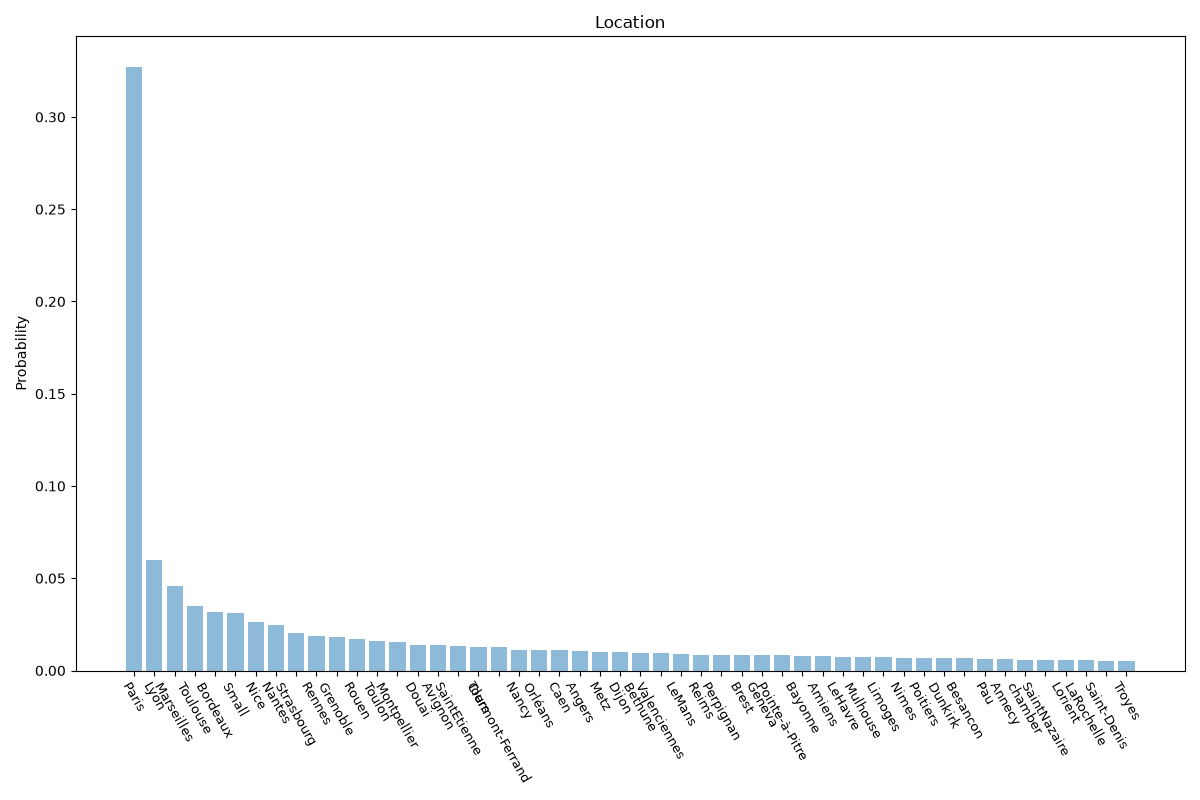
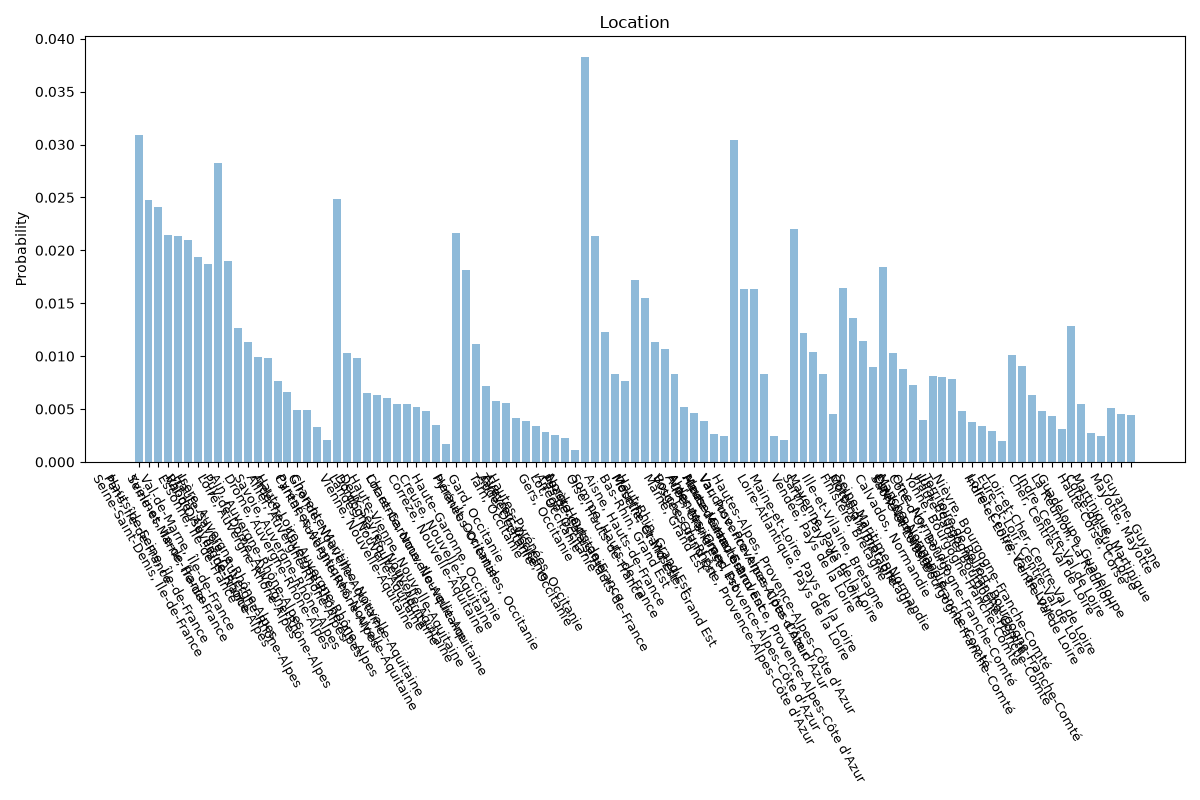
fix: rebuild France location from INSEE departments, add United States composite and aliases

diff --git a/src/persona/lib/format.py b/src/persona/lib/format.py
@@ -1,9 +1,19 @@
-# Only aliases that resolve to a dataset belong here. `usa` and `uae` were
-# removed: there is no United States composite (only three states) and no
-# United Arab Emirates data at all.
+# Only aliases that resolve to a dataset belong here. Names that already match
+# a data directory once lowercased and underscored (united_kingdom, global,
+# united_states_of_america) resolve without an entry.
 alias = {
     "uk": "united_kingdom",
+    "great_britain": "united_kingdom",
+    "gb": "united_kingdom",
+    "britain": "united_kingdom",
+    "usa": "united_states_of_america",
+    "us": "united_states_of_america",
+    "u.s.": "united_states_of_america",
+    "u.s.a.": "united_states_of_america",
+    "america": "united_states_of_america",
+    "united_states": "united_states_of_america",
     "world": "global",
+    "earth": "global",
 }
 
 

diff --git a/tests/test_generate.py b/tests/test_generate.py
@@ -273,10 +273,13 @@ def test_clean_location_aliases():
 
     assert clean_location("uk") == "united_kingdom"
     assert clean_location("UK") == "united_kingdom"
+    assert clean_location("britain") == "united_kingdom"
     assert clean_location("world") == "global"
     assert clean_location("northern-ireland") == "northern_ireland"
+    for name in ("usa", "us", "U.S.A.", "america", "united_states", "United States of America"):
+        assert clean_location(name) == "united_states_of_america", name
     # Unknown names pass through unchanged rather than mapping to missing data
-    assert clean_location("usa") == "usa"
+    assert clean_location("atlantis") == "atlantis"
 
 
 def test_gen_samples_marital_status_only_if_age_16_plus():

diff --git a/src/persona/lib/generate.py b/src/persona/lib/generate.py
@@ -5,6 +5,8 @@ from pathlib import Path
 
 import numpy as np
 
+from persona.lib.format import clean_location
+
 DATA_DIR = Path(__file__).parent.parent / "data"
 
 # Features only assigned to samples aged 16 or over.
@@ -265,6 +267,9 @@ def gen_samples(
     rng = np.random.default_rng(seed)
     samples = []
     cache: dict[Path, dict] = {}
+    # Idempotent, so callers that already normalised (the CLI, the API) are
+    # unaffected, and direct library callers get alias resolution for free.
+    location = clean_location(location)
     for _ in range(N):
         target, location_labels = resolve_location(location, rng)
 

diff --git a/src/persona/data/france/README.md b/src/persona/data/france/README.md
@@ -37,4 +37,4 @@
 
 - [Recensement de la population 2021, INSEE (2021)](https://www.insee.fr/fr/statistiques/serie/000436389) — age, sex, marital status, education, occupation, housing tenure
 - [Transmission familiale des langues, INSEE (2023)](https://www.insee.fr/fr/statistiques/6793260) — language
-- [Aires d'attraction des villes, INSEE (2020)](https://www.insee.fr/fr/statistiques/3303318?sommaire=3353488) — location
+- [Estimation de la population par département au 1er janvier 2023, INSEE (2023)](https://www.insee.fr/fr/statistiques/1893198) — location

diff --git a/src/persona/data/united_states_of_america/README.md b/src/persona/data/united_states_of_america/README.md
@@ -1,0 +1,9 @@
+# United States Of America
+
+Composite: Made up of California, Texas, and Florida.
+
+\![United States Of America](img/united_states_of_america.png)
+
+## Sources
+
+- [American Community Survey 5-Year Estimates, US Census Bureau (via Census Reporter) (2024)](https://censusreporter.org/) — location
